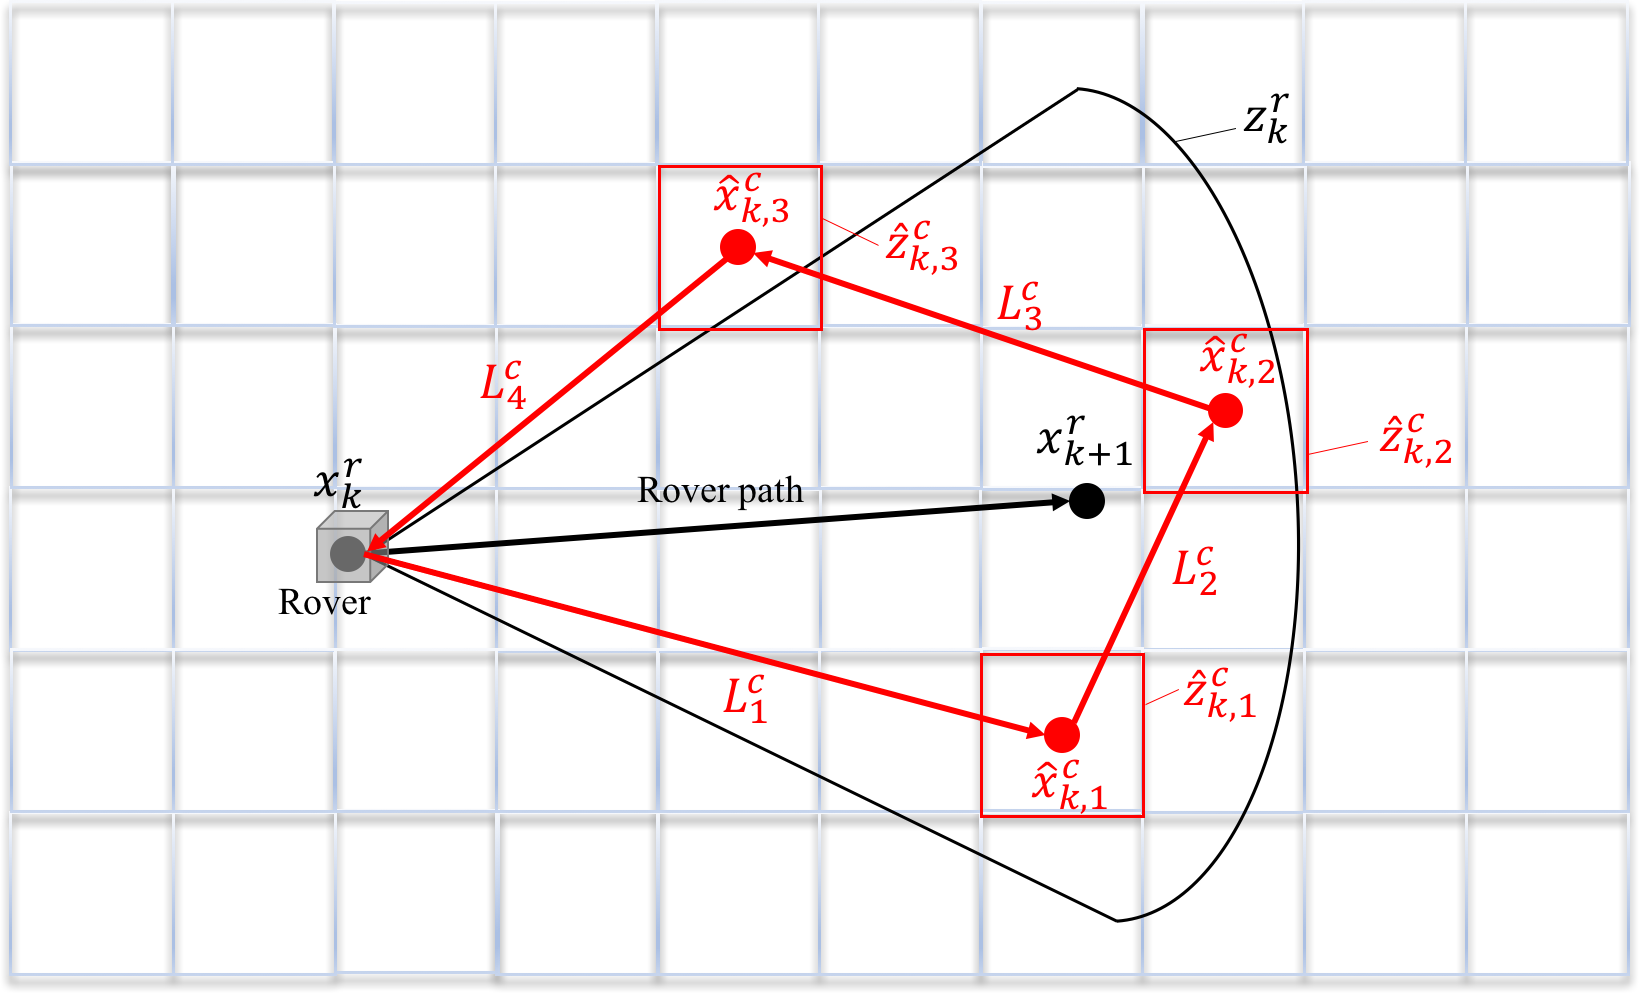
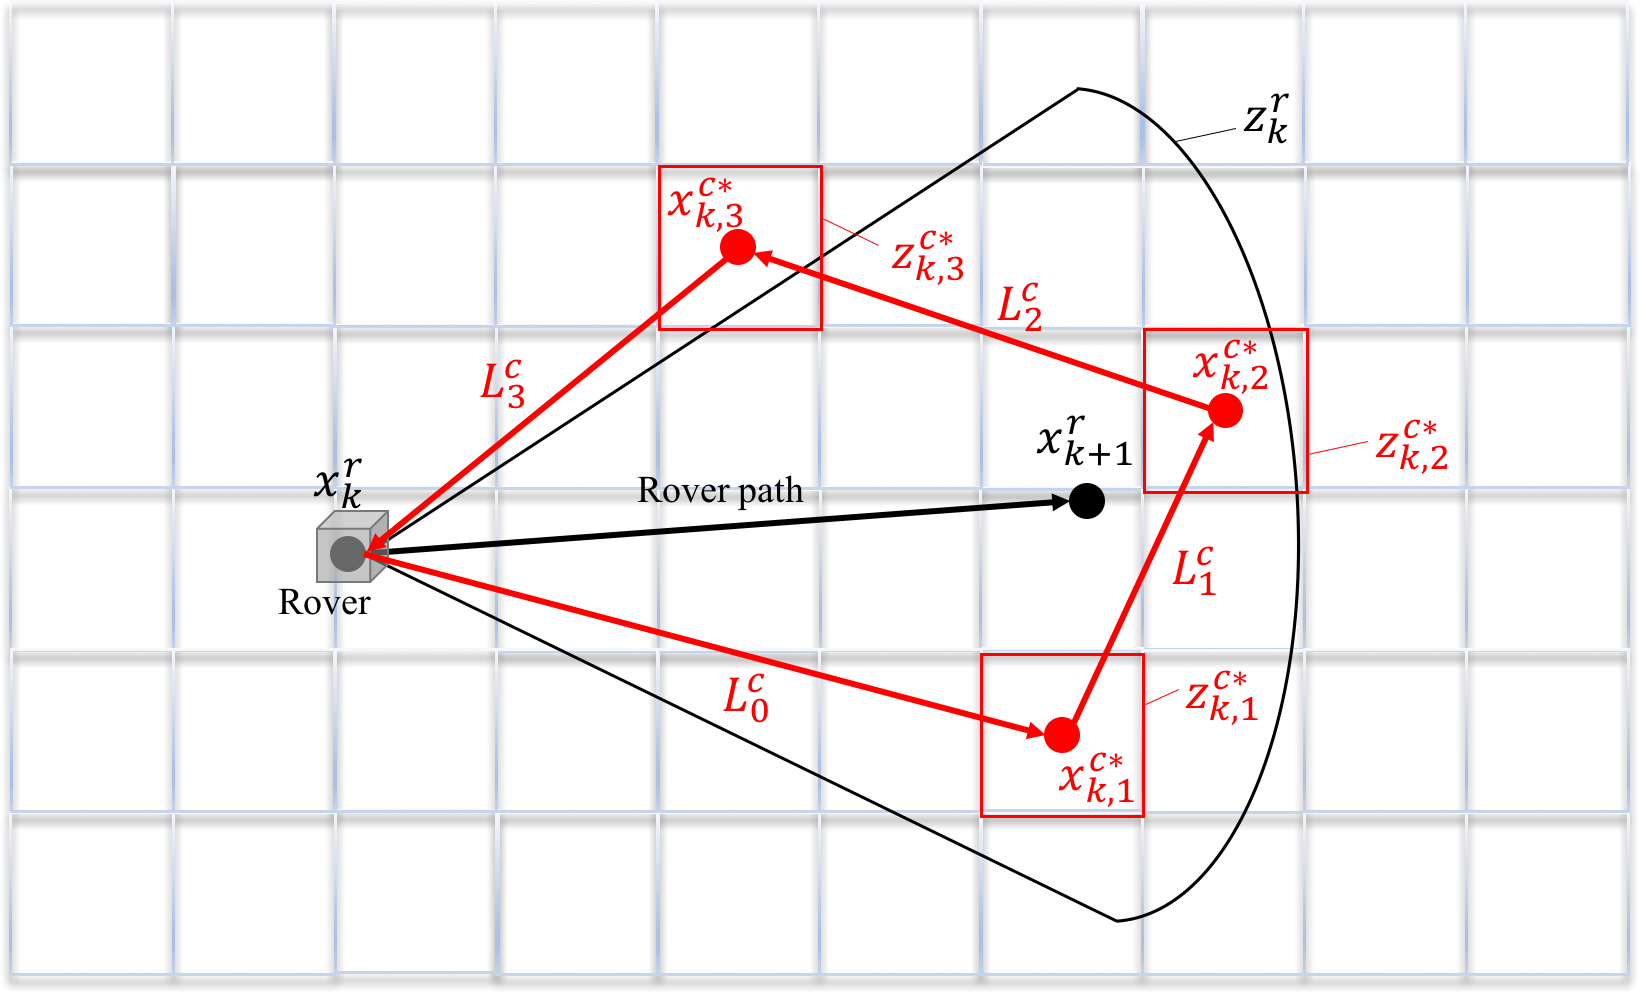
Updates from ShareLaTeX

diff --git a/BeliefSpaceTemporalLogic/8_WhereToMap.tex b/BeliefSpaceTemporalLogic/8_WhereToMap.tex
@@ -68,7 +68,12 @@ Copter’s constraints coming from a battery is described as follows:
 The rover and helicopter configurations are denoted by $x^r$ and $x^c$, respectively. The extended state $x=(x^r,~x^c)$ includes both.
 
 \pr{Rover and Helicopter Measurements}
-Let $z^r_k$ and $z^c_k$ the measurements (images) by the rover and the helicopter at the $k$-th time step, respectively. Sequences of observations are defined as $z^r_{0:k}=\{z^r_0,z^r_1,\cdots,z^r_k\}$,~$z^c_{0:l}=\{z^c_0,z^c_1,\cdots,z^c_l\}$ for $0 \leq l \leq k$. A copter takes images only at the $l$-th step ($l \in k$), since a copter has battery limitation.
+Let $z^r_k$ and $z^c_k$ the measurements (images) by the rover and the copter at the $k$-th time step, respectively. Sequences of observations are defined as
+\begin{align}
+    z^r_{0:k}&=\{z^r_0,z^r_1,\cdots,z^r_k\}\\
+    z^c_{k,1:j}&=\{z^c_{k,1},z^c_{k,2},\cdots,z^c_{k,j}\}
+\end{align}
+where $0 \leq k \leq T$ and a copter takes $j$ images at the $k$-th rover step.
 
 \pr{Map Belief}
 We denote the map of the environment by $m$ and assume the environment is stationary. The knowledge we have about the environment is obtained via noisy sensors. Therefore, the best we can have is a probabilistic representation of $m$, i.e., the map belief
@@ -104,8 +109,8 @@ We consider maps from both rover and copter and use a surf feature mapping. Vect
 \pr{Map Update}
 The map of a rover and a copter can be updated as follows:
 \begin{align}
-    m^r_{k+1}&=\tau^r_m (m_k, u^r_k, x^r_{k+1}, z^r_{k+1})\\
-    m^c_{k+1}&=\tau^c_m (m_k, u^c_k, x^c_{k+1}, z^c_{k+1})
+    m^r_{k+1}&=\tau^r_m (m_k, x^r_{k+1}, z^r_{k+1})\\
+    m^c_{k+1}&=\tau^c_m (m_k, x^c_{k+1}, z^c_{k+1})
 \end{align}
 where
 \begin{align}
@@ -119,20 +124,24 @@ Therefore, using these $m^r_{k+1}$ and $m^c_{k+1}$, the map at the $k$-th time s
 \begin{eqnarray}
 m_{k+1} =
   \begin{cases}
-    \tau_m (m^r_{k+1}, m^c_{k+1}) & ($k+1 \in l$)\\
-    m^r_{k+1} & ($k+1 \not\in l$)
+    \tau_m (m^r_{k+1}, m^c_{k+1}) & (k+1 = l)\\
+    m^r_{k+1} & (k+1 \neq l)
   \end{cases}
 \end{eqnarray}
 
 %%%%%%%%%%%%%%%%%%%%%%%%%%%%%%%%%%%%%%%%%%%%%%%%%%%%%%%%%%
 \section{Rover Localization}
 This section considers belief update for a rover localization. Belief update of a map is given by
-\begin{align}
-    b^{m}_k=p(m_k | z^r_{0:k}, x^r_{0:k}, z^c_{0:l}, x^c_{0:l}).
-\end{align}
+\begin{eqnarray}
+    b^{m}_k=
+    \begin{cases}
+    p(m_k | z^r_{0:k}, x^r_{0:k}, z^c_{k,1:j}, x^c_{k,1:j}) & (k=l)\\
+    p(m_k | z^r_{0:k}, x^r_{0:k}) & (k \neq l)
+    \end{cases}
+\end{eqnarray}
 Belief update of a rover localization is given by
 \begin{align}
-    b^r_{k+1}=\tau^r (b^r_k, u^r_k, z^r_{k+1}; m_{k+1}).
+    b^r_{k+1}=\tau^r (b^r_k, b^m_k, u^r_k, z^r_{k+1}; m_{k+1}).
 \end{align}
 
 \section{Planning: copter where to map}
@@ -142,13 +151,13 @@ Belief update of a rover localization is given by
 We find a helicopter position that minimizes the following cost function:
 \begin{align}
     &x^{c*}=\arg\min_{x^c \in X^c} \sum^T_{k=1} P^{r+}_k\label{eq:c1}\\
-     &{\rm s.t.} \hspace{5mm} D_{\min}(x^c_{alt}) \leq D^c_k \leq D_{\max}(x^c_{alt})\label{eq:st1}\\
-    &\hspace{10mm} \sum^{Tc}_{l=1} L^c_{k,l} \leq L^c_{\max}(t^c_{search})\label{eq:st2}
+     &{\rm s.t.} \hspace{5mm} D^c_{\min}(x^c_{alt}) \leq D^c_k \leq D^c_{\max}(x^c_{alt})\label{eq:st1}\\
+    &\hspace{10mm} \sum^{n}_{i=0} L^c_{k,i} \leq L^c_{\max}(t^c_{search}), ~~0\leq i \leq n \label{eq:st2}
 \end{align}
 where
 \begin{align}
-P^{r+}_k&={\rm Cov}(x^{r+}_k) = {\rm Cov}(x^{r}_k | z_{0:k})\label{eq:p1}\\
-&={\rm VO}(z_1,~z_2,\cdots,~z_k)\simeq {\rm VO}(z_k).\label{eq:p2}
+P^{r+}_k&={\rm Cov}(x^{r+}_k) = {\rm Cov}(x^{r}_k | z^r_{0:k})\label{eq:p1}\\
+&={\rm VO}(z^r_0,~z^r_1,\cdots,~z^r_k)\simeq {\rm VO}(z^r_k).\label{eq:p2}
 \end{align}
 Note that Cov($\cdot$) and VO($\cdot$) denote the covariance and the visual odometry, respectively.
 
@@ -164,17 +173,18 @@ A resolution of an image from a copter depends on a camera performance and a alt
 Equation~\eqref{eq:st1} represents the constraint that the area of the image depends on the altitude of the copter.
 A field-of-view (FOV) $D^c$ is determined by an altitude of a copter.
 \begin{align}
-    D_{\min}(x^c_{alt}) \leq D^c_k \leq D_{\max}(x^c_{alt})
+    D^c_{\min}(x^c_{alt}) \leq D^c_k \leq D^c_{\max}(x^c_{alt})
 \end{align}
 
 \pr{Flight time constraint}
-Equation~\eqref{eq:st2} represents the constraint that the searching range $L^c$ depends on the flight time $T^c_{search}$ coming from the battery limitation of the copter.
+Equation~\eqref{eq:st2} represents the constraint that the searching range $L^c$ depends on the flight time $t^c_{search}$ coming from the battery limitation of the copter.
 \begin{align}
-    \sum^{Tc}_{l=1} L^c_{k,l} \leq L^c_{\max}(t^c_{search})
+    \sum^{n}_{i=0} L^c_{k,i} \leq L^c_{\max}(t^c_{search})
 \end{align}
+where $n$ is the number of the areas for searching by the copter.
 
 \pr{Flight interval constraint}
-``{\it When to map}'' is also an interesting problem. This constraint determines $l$ in the time step $k$.
+``{\it When to map}'' is also an interesting problem.
 \textcolor[gray]{0.5}{
 \section{Planning: copter body path planning}
 \subsection{Planning Objective}
@@ -227,21 +237,22 @@ where $\Delta \grave{x}_{i,i+1}$ denotes the displacement between two synthetic 
 %    \item Occluded area (using Viewshed analysis)
  %   \item Beyond rover’s perception horizon
 %\end{itemize}
+
+\subsection{Search the optimal path}
+From the obtained the areas to map, next we search the optimal path (shortest path) using a traveling salesman problem (TSP) or a dynamic programming (DP).  
+
 \begin{figure}[h]
 		\centering
 		\includegraphics[width=1.0\columnwidth]{figs/vs.png}
 		\caption{Viewshed analysis (example).}
 		\label{fig:vs}
-\end{figure}
-\begin{figure}[h]
+%\end{figure}
+%\begin{figure}[h]
 		\centering
 		\includegraphics[width=1.0\columnwidth]{figs/8_4.png}
-		\caption{Creating the path.}
+		\caption{Creating the path (in the case of $n=3$).}
 		\label{fig:8_4}
 \end{figure}
-
-\subsection{Search the optimal path}
-From the obtained the areas to map, next we search the optimal path (shortest path) using a traveling salesman problem (TSP) or a dynamic programming (DP).  
 
 \textcolor[gray]{0.5}{
 \section{Search Method: copter body path planning}
